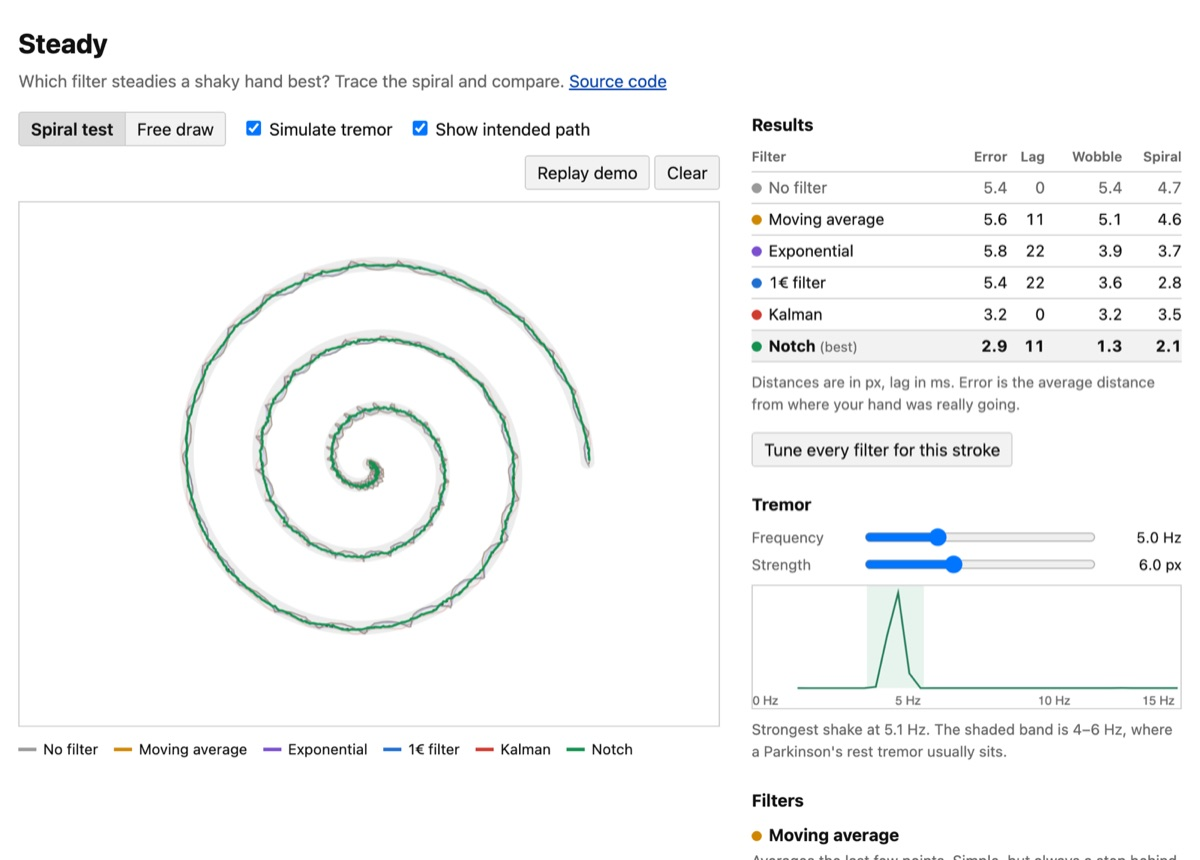
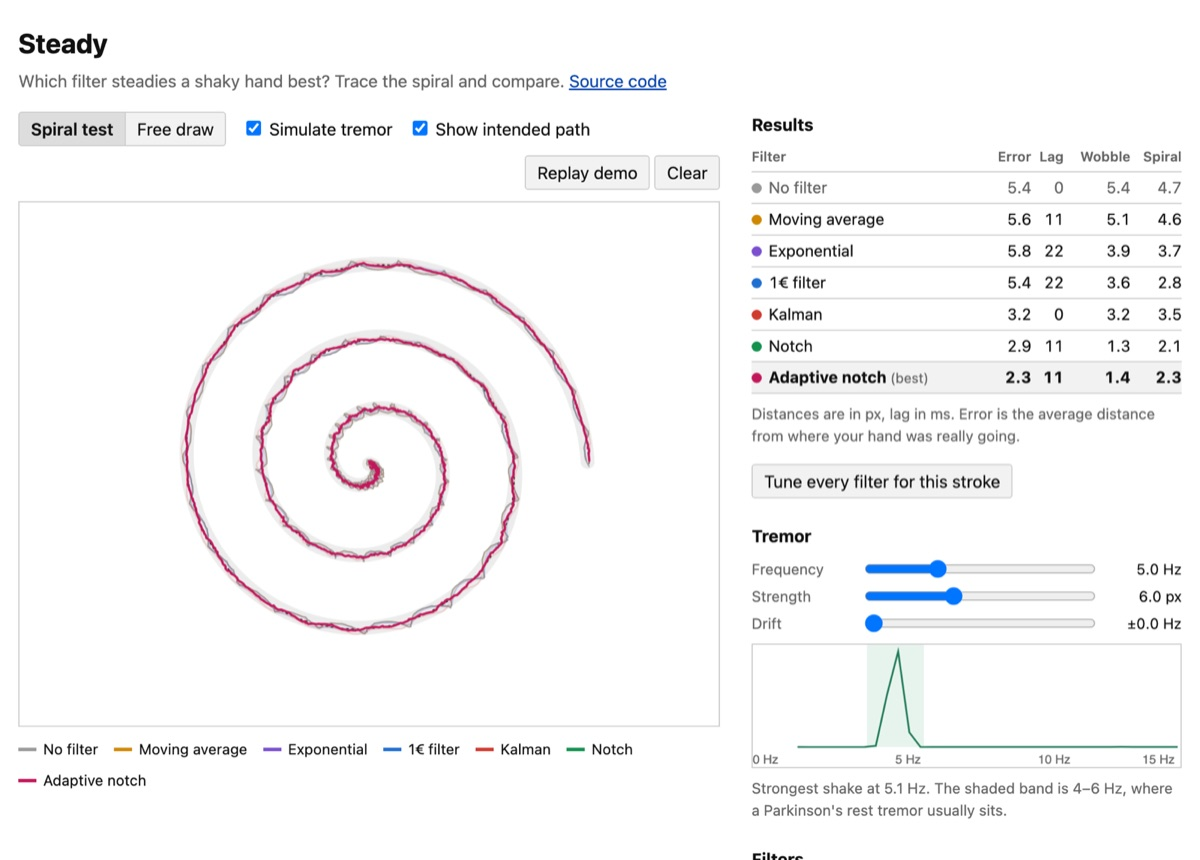
Steady update

diff --git a/index.html b/index.html
@@ -59,7 +59,7 @@
 
 <div class="item">
   <h3><span class="when">Oct 2026</span>Steady <span class="links"><a href="https://burthebear.github.io/steady/">try it</a> · <a href="https://github.com/BurTheBear/steady">code</a></span></h3>
-  <p>A spin-off from TypeParkinson. You draw with a fake tremor and compare five filters that try to smooth it out. Most of them barely help, because the lag they add costs about as much as the shake. A notch filter tuned to the tremor's frequency cut the error by more than half.</p>
+  <p>A spin-off from TypeParkinson. You draw with a fake tremor and compare six filters that try to smooth it out. Most of them barely help, because the lag they add costs about as much as the shake. A notch filter tuned to the tremor's frequency cut the error by more than half, and when the tremor drifts, a notch that keeps retuning itself does even better.</p>
   <a href="https://burthebear.github.io/steady/"><img class="shot" src="assets/steady.jpg" alt="Steady comparing filters on a spiral" loading="lazy"></a>
 </div>
 
